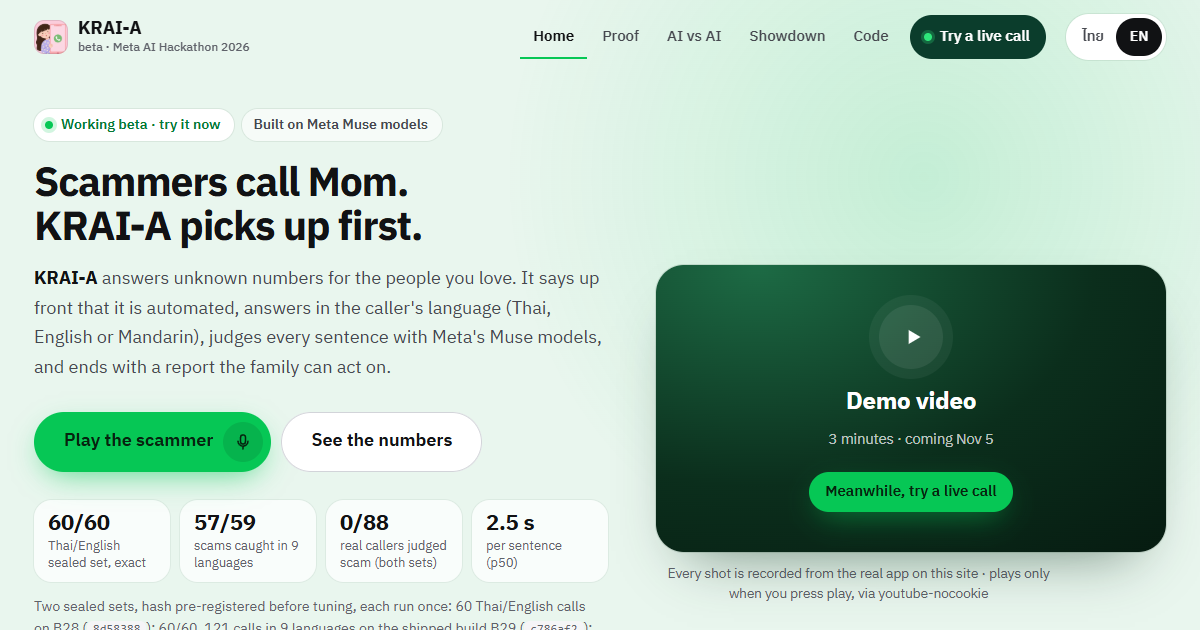
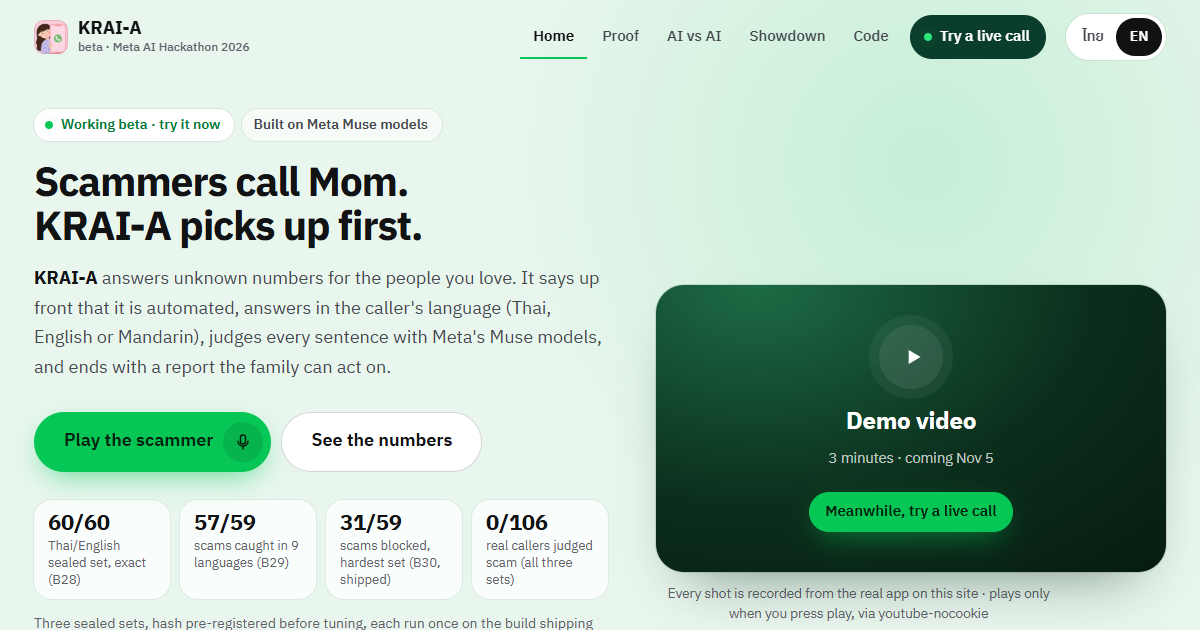
site: shipped build is B30; sealed v4 (hard, Claude-written, 100 of 236) stated plainly beside sealed-intl (B29) and sealed v2 (B28): 31/59 scams blocked, 4 put through, 0/106 real callers judged scam across all three; proof v4 story counts the subset and its UNSURE class; README, SUBMISSION, judge 

diff --git a/app/public/index.html b/app/public/index.html
@@ -6,11 +6,11 @@
 <meta name="color-scheme" content="light only">
 <meta name="theme-color" content="#E9F6EE">
 <title>KRAI-A beta — the AI that answers scam calls, on Meta models</title>
-<meta name="description" content="KRAI-A answers unknown calls, says it is automated, judges every caller sentence with Meta&#x27;s Muse models in Thai, English or Mandarin, and hangs up on scammers. Sealed tests: 60/60 on Thai/English calls; 57/59 scams caught and 0/62 real callers flagged in 9 languages.">
+<meta name="description" content="KRAI-A answers unknown calls, says it is automated, judges every caller sentence with Meta&#x27;s Muse models in Thai, English or Mandarin, and hangs up on scammers. Three sealed tests, each run once: 60/60 (Thai/English), 57/59 scams caught in 9 languages, and 31/59 on a much harder set; no real caller judged scam in any.">
 <meta property="og:type" content="website">
 <meta property="og:site_name" content="KRAI-A beta">
 <meta property="og:title" content="KRAI-A: an AI receptionist that screens scam calls, on Meta models">
-<meta property="og:description" content="KRAI-A answers unknown calls, says it is automated, judges every caller sentence with Meta&#x27;s Muse models in Thai, English or Mandarin, and hangs up on scammers. Sealed tests: 60/60 on Thai/English calls; 57/59 scams caught and 0/62 real callers flagged in 9 languages.">
+<meta property="og:description" content="KRAI-A answers unknown calls, says it is automated, judges every caller sentence with Meta&#x27;s Muse models in Thai, English or Mandarin, and hangs up on scammers. Three sealed tests, each run once: 60/60 (Thai/English), 57/59 scams caught in 9 languages, and 31/59 on a much harder set; no real caller judged scam in any.">
 <meta property="og:url" content="https://beta.krai-a.com/">
 <meta property="og:image" content="https://beta.krai-a.com/brand/og.png">
 <meta property="og:image:width" content="1200">
@@ -18,7 +18,7 @@
 <meta property="og:image:alt" content="The KRAI-A beta home page: Scammers call Mom. KRAI-A picks up first.">
 <meta name="twitter:card" content="summary_large_image">
 <meta name="twitter:title" content="KRAI-A: an AI receptionist that screens scam calls, on Meta models">
-<meta name="twitter:description" content="KRAI-A answers unknown calls, says it is automated, judges every caller sentence with Meta&#x27;s Muse models in Thai, English or Mandarin, and hangs up on scammers. Sealed tests: 60/60 on Thai/English calls; 57/59 scams caught and 0/62 real callers flagged in 9 languages.">
+<meta name="twitter:description" content="KRAI-A answers unknown calls, says it is automated, judges every caller sentence with Meta&#x27;s Muse models in Thai, English or Mandarin, and hangs up on scammers. Three sealed tests, each run once: 60/60 (Thai/English), 57/59 scams caught in 9 languages, and 31/59 on a much harder set; no real caller judged scam in any.">
 <meta name="twitter:image" content="https://beta.krai-a.com/brand/og.png">
 <link rel="apple-touch-icon" href="/brand/krai-a-icon.png">
 <link rel="icon" type="image/png" href="/brand/krai-a-icon.png">
@@ -173,12 +173,12 @@ html .k-hero .k-h1{font-size:clamp(34px,3.4vw,50px)}
           <a class="btn light big" href="/proof.html" data-th="ดูตัวเลขวัดจริง" data-en="See the numbers">See the numbers</a>
         </div>
         <ul class="k-facts" aria-label="Sealed test results">
-          <li><b>60/60</b><span data-th="ชุดปิดผนึกไทย/อังกฤษ ตัดสินตรง" data-en="Thai/English sealed set, exact">Thai/English sealed set, exact</span></li>
-          <li><b>57/59</b><span data-th="มิจที่จับได้ใน 9 ภาษา" data-en="scams caught in 9 languages">scams caught in 9 languages</span></li>
-          <li><b>0/88</b><span data-th="คนจริงที่ถูกตัดสินว่ามิจ (ทั้งสองชุด)" data-en="real callers judged scam (both sets)">real callers judged scam (both sets)</span></li>
-          <li><b>2.5 s</b><span data-th="ต่อประโยค (p50)" data-en="per sentence (p50)">per sentence (p50)</span></li>
+          <li><b>60/60</b><span data-th="ชุดไทย/อังกฤษ ตัดสินตรง (B28)" data-en="Thai/English sealed set, exact (B28)">Thai/English sealed set, exact (B28)</span></li>
+          <li><b>57/59</b><span data-th="มิจที่จับได้ใน 9 ภาษา (B29)" data-en="scams caught in 9 languages (B29)">scams caught in 9 languages (B29)</span></li>
+          <li><b>31/59</b><span data-th="มิจที่บล็อกได้ ชุดยากสุด (B30 ที่ส่ง)" data-en="scams blocked, hardest set (B30, shipped)">scams blocked, hardest set (B30, shipped)</span></li>
+          <li><b>0/106</b><span data-th="คนจริงที่ถูกตัดสินว่ามิจ (ทั้งสามชุด)" data-en="real callers judged scam (all three sets)">real callers judged scam (all three sets)</span></li>
         </ul>
-        <p class="k-note" data-th="สองชุดทดสอบปิดผนึก ลงทะเบียน hash ไว้ก่อนจูน รันชุดละครั้ง: 60 สายไทย/อังกฤษ บน B28 (<code>8d58388</code>) ได้ 60/60 · 121 สาย 9 ภาษา บน build ที่ส่งจริง B29 (<code>c786af2</code>) จับมิจ 57/59 ไม่มีคนจริงถูกตัดสินว่ามิจ แต่ 24 จาก 62 สายจริงถูกรับฝากเรื่องแทนการปล่อยผ่าน · <a href='/proof.html'>ผลดิบที่ /proof</a>" data-en="Two sealed sets, hash pre-registered before tuning, each run once: 60 Thai/English calls on B28 (<code>8d58388</code>): 60/60. 121 calls in 9 languages on the shipped build B29 (<code>c786af2</code>): 57/59 scams caught, no real caller judged scam, but 24 of 62 real callers got a message taken instead of being cleared. <a href='/proof.html'>Raw results on /proof</a>">Two sealed sets, hash pre-registered before tuning, each run once: 60 Thai/English calls on B28 (<code>8d58388</code>): 60/60. 121 calls in 9 languages on the shipped build B29 (<code>c786af2</code>): 57/59 scams caught, no real caller judged scam, but 24 of 62 real callers got a message taken instead of being cleared. <a href="/proof.html">Raw results on /proof</a></p>
+        <p class="k-note" data-th="สามชุดทดสอบปิดผนึก ลงทะเบียน hash ไว้ก่อนจูน รันชุดละครั้ง แต่ละชุดวัดบน build ที่ส่งอยู่ตอนนั้น: 60 สายไทย/อังกฤษ บน B28 ได้ 60/60 · 121 สาย 9 ภาษา บน B29 จับมิจ 57/59 · ชุดยากที่ Claude เขียน (100 จาก 236 สาย) บน B30 ที่ส่งจริงตอนนี้ บล็อกมิจได้แค่ 31/59 มิจ 4 สายถูกปล่อยเป็นคนจริง ที่เหลือจบเป็นการรับฝากเรื่อง · B30 ไม่ได้วัดซ้ำบนสองชุดแรก · <a href='/proof.html'>ผลดิบที่ /proof</a>" data-en="Three sealed sets, hash pre-registered before tuning, each run once on the build shipping at the time: 60 Thai/English calls on B28: 60/60. 121 calls in 9 languages on B29: 57/59 scams caught. A much harder Claude-written set (100 of 236 calls) on B30, shipped now: only 31/59 scams blocked; 4 scams were put through as real callers and the rest ended as a message. B30 was not re-run on the first two sets. <a href='/proof.html'>Raw results on /proof</a>">Three sealed sets, hash pre-registered before tuning, each run once on the build shipping at the time: 60 Thai/English calls on B28: 60/60. 121 calls in 9 languages on B29: 57/59 scams caught. A much harder Claude-written set (100 of 236 calls) on B30, shipped now: only 31/59 scams blocked; 4 scams were put through as real callers and the rest ended as a message. B30 was not re-run on the first two sets. <a href="/proof.html">Raw results on /proof</a></p>
         <p class="k-note lp-disc" data-th="สร้างระหว่างงาน 27 ต.ค.–4 พ.ย. · ต้นแบบเก่าบน Google Cloud เป็นแค่ไม้บรรทัดที่แช่แข็งไว้ ไม่ใช่ผลงานนี้ · บอกผู้โทรทุกสายว่าเป็นระบบอัตโนมัติ · <a href='https://github.com/ilGentEAcutoO/krai-a-beta'>โค้ดเปิด MIT</a> · <a href='#honest'>ข้อจำกัด</a>" data-en="Built Oct 27 – Nov 4 for this hackathon · the pre-hackathon Google Cloud prototype is a frozen baseline, not this entry · tells every caller it is automated · <a href='https://github.com/ilGentEAcutoO/krai-a-beta'>open source, MIT</a> · <a href='#honest'>limits</a>">Built Oct 27 – Nov 4 for this hackathon · the pre-hackathon Google Cloud prototype is a frozen baseline, not this entry · tells every caller it is automated · <a href="https://github.com/ilGentEAcutoO/krai-a-beta">open source, MIT</a> · <a href="#honest">limits</a></p>
       </div>
 
@@ -208,7 +208,7 @@ html .k-hero .k-h1{font-size:clamp(34px,3.4vw,50px)}
       <ul class="lp-judge-grid">
         <li><span class="k" data-th="ผลกระทบ" data-en="Impact">Impact</span><p data-th="คนอายุ 60+ เสียเงิน 28.55% จากการฉ้อโกงออนไลน์ในไทย ตอบผู้โทรได้ 3 ภาษา" data-en="People 60+ lose 28.55% of Thai online-fraud money; it answers callers in 3 languages.">People 60+ lose 28.55% of Thai online-fraud money; it answers callers in 3 languages.</p><a href="#problem" data-th="ตัวเลขพร้อมแหล่งที่มา" data-en="Sourced figures">Sourced figures</a> · <a href="/arena.html#langSec" data-th="ผู้โทรภาษาอื่น" data-en="Other languages">Other languages</a></li>
         <li><span class="k" data-th="การใช้เครื่องมือ Meta" data-en="Meta tooling">Meta tooling</span><p data-th="Voice Transcribe ฟัง, Spark ตัดสินทุกประโยค, Wonder ดูกรณีก้ำกึ่งและเล่นเป็นมิจ 504 เกม" data-en="Voice Transcribe listens, Spark judges every sentence, Wonder takes grey zones and red-teams 504 games.">Voice Transcribe listens, Spark judges every sentence, Wonder takes grey zones and red-teams 504 games.</p><a href="#tech" data-th="โมเดลไหนทำอะไร" data-en="Which model does what">Which model does what</a> · <a href="/arena.html" data-th="AI ปะทะ AI" data-en="AI vs AI">AI vs AI</a></li>
-        <li><span class="k" data-th="ความลึกทางเทคนิค" data-en="Technical depth">Technical depth</span><p data-th="ชุดปิดผนึกลงทะเบียนล่วงหน้าสองชุด (60/60 และ 57/59 มิจ 0/62 ผิด) นโยบายอยู่ในโค้ด เทสต์กว่า 260 ตัว ผลรันดิบอยู่ใน repo" data-en="Two pre-registered sealed sets (60/60; 57/59 scams with 0/62 false alarms), decisions in code, 260+ tests, raw runs in the repo.">Two pre-registered sealed sets (60/60; 57/59 scams with 0/62 false alarms), decisions in code, 260+ tests, raw runs in the repo.</p><a href="/proof.html" data-th="ผลวัดจริง" data-en="Proof">Proof</a> · <a href="https://github.com/ilGentEAcutoO/krai-a-beta" rel="noopener" data-th="โค้ด (MIT)" data-en="Code (MIT)">Code (MIT)</a></li>
+        <li><span class="k" data-th="ความลึกทางเทคนิค" data-en="Technical depth">Technical depth</span><p data-th="ชุดปิดผนึกลงทะเบียนล่วงหน้าสามชุด (60/60, 57/59 และชุดยาก 31/59) นโยบายอยู่ในโค้ด เทสต์กว่า 260 ตัว ผลรันดิบอยู่ใน repo" data-en="Three pre-registered sealed sets (60/60; 57/59; 31/59 on the hardest), decisions in code, 260+ tests, raw runs in the repo.">Three pre-registered sealed sets (60/60; 57/59; 31/59 on the hardest), decisions in code, 260+ tests, raw runs in the repo.</p><a href="/proof.html" data-th="ผลวัดจริง" data-en="Proof">Proof</a> · <a href="https://github.com/ilGentEAcutoO/krai-a-beta" rel="noopener" data-th="โค้ด (MIT)" data-en="Code (MIT)">Code (MIT)</a></li>
         <li><span class="k" data-th="เดโม" data-en="Demo">Demo</span><p data-th="สวมบทมิจด้วยเสียง พิมพ์ หรือเล่นสายตัวอย่าง ได้คำตัดสินทุกประโยคและรายงานตอนจบสาย" data-en="Play the scammer by voice, typing or a sample call; a verdict on every sentence and a report at the end.">Play the scammer by voice, typing or a sample call; a verdict on every sentence and a report at the end.</p><a href="/demo-live.html" data-th="ลองโทรสด" data-en="Try a live call">Try a live call</a> · <a href="https://github.com/ilGentEAcutoO/krai-a-beta/blob/main/docs/judge-guide.md" data-th="คู่มือ 60 วินาที" data-en="60-second guide">60-second guide</a></li>
       </ul>
     </div>
@@ -318,8 +318,8 @@ html .k-hero .k-h1{font-size:clamp(34px,3.4vw,50px)}
         <article class="k-card">
           <span class="k-card-ic blue" aria-hidden="true"><svg viewBox="0 0 24 24"><path d="M12 3l7.5 3v5.5c0 4.6-3.2 8.4-7.5 9.5-4.3-1.1-7.5-4.9-7.5-9.5V6z M8.6 12.2l2.4 2.4 4.6-4.8"/></svg></span>
           <h3 data-th="ทดสอบกับสายที่ไม่เคยเห็น" data-en="Tested on calls it never saw">Tested on calls it never saw</h3>
-          <p data-th="สองชุดที่ลงทะเบียน hash ไว้ก่อนจูนและรันชุดละครั้ง: 60 สายไทย/อังกฤษ บน B28 และ 121 สายใน 9 ภาษา (อังกฤษ จีนกลาง เวียดนาม อินโดนีเซีย มาเลย์ ตากาล็อก ญี่ปุ่น เกาหลี ฮินดี) บน build ที่ส่งจริง B29 ไม่มีมิจถูกปล่อยเป็นคนจริงในชุดไหนเลย ทุกรันอยู่ใน /proof พร้อมผลดิบ" data-en="Two sets, hash pre-registered before tuning, each run once: 60 Thai/English calls on B28, and 121 calls in 9 languages (English, Mandarin, Vietnamese, Indonesian, Malay, Tagalog, Japanese, Korean, Hindi) on the shipped build B29. No scam was cleared as a real caller in either. Every run is on /proof with raw results.">Two sets, hash pre-registered before tuning, each run once: 60 Thai/English calls on B28, and 121 calls in 9 languages (English, Mandarin, Vietnamese, Indonesian, Malay, Tagalog, Japanese, Korean, Hindi) on the shipped build B29. No scam was cleared as a real caller in either. Every run is on /proof with raw results.</p>
-          <div class="k-metric"><b>57/59</b><span data-th="มิจที่จับได้ 9 ภาษา · คนจริงถูกตัดสินว่ามิจ 0/62 · ชุดไทย/อังกฤษ 60/60" data-en="scams caught in 9 languages · real callers judged scam 0/62 · Thai/English set 60/60">scams caught in 9 languages · real callers judged scam 0/62 · Thai/English set 60/60</span></div>
+          <p data-th="สามชุดที่ลงทะเบียน hash ไว้ก่อนจูน รันชุดละครั้งบน build ของตอนนั้น: 60 สายไทย/อังกฤษ (B28) 121 สายใน 9 ภาษา (B29) และ 100 สายยากที่ Claude เขียนจาก 236 สาย มีทั้งผู้โทรที่พยายามหลอก AI เสียงถอดผิด สำเนียงท้องถิ่น และมิจค่อย ๆ หลอก (B30 ที่ส่ง) ทุกรันอยู่ใน /proof พร้อมผลดิบ" data-en="Three sets, hash pre-registered before tuning, each run once on the build of the day: 60 Thai/English calls (B28), 121 calls in 9 languages (B29), and 100 hard Claude-written calls out of 236, with adversarial callers, transcription noise, dialects and slow burns (B30, shipped). Every run is on /proof with raw results.">Three sets, hash pre-registered before tuning, each run once on the build of the day: 60 Thai/English calls (B28), 121 calls in 9 languages (B29), and 100 hard Claude-written calls out of 236, with adversarial callers, transcription noise, dialects and slow burns (B30, shipped). Every run is on /proof with raw results.</p>
+          <div class="k-metric"><b>0/106</b><span data-th="คนจริงถูกตัดสินว่ามิจ ทั้งสามชุด · มิจ 60/60 → 57/59 → 31/59 บนชุดยากสุด" data-en="real callers judged scam across all three · scams: 60/60, 57/59, then 31/59 on the hardest">real callers judged scam across all three · scams: 60/60, 57/59, then 31/59 on the hardest</span></div>
         </article>
       </div>
     </div>
@@ -383,7 +383,7 @@ html .k-hero .k-h1{font-size:clamp(34px,3.4vw,50px)}
       <div class="k-sec-head">
         <span class="k-kicker" data-th="เบื้องหลัง" data-en="Under the hood">Under the hood</span>
         <h2 id="techTitle" data-th="ทุกการตัดสินใจเป็นโมเดลของ Meta" data-en="Every decision is a Meta model">Every decision is a Meta model</h2>
-        <p data-th="Gemini ทำหน้าที่เดียวคือพูดออกเสียง เพราะ API ของ Meta ไม่มีระบบแปลงข้อความเป็นเสียง เวลาและค่าใช้จ่ายวัดจากการรันชุดปิดผนึก 9 ภาษาบน build ที่ส่ง B29 (เฉพาะการตัดสิน ค่าถอดเสียงคิดแยก)" data-en="Gemini does one job, speaking out loud, because Meta's API has no text-to-speech. Timings and cost are measured on the 9-language sealed run of the shipped build B29 (judge only; transcription priced separately).">Gemini does one job, speaking out loud, because Meta's API has no text-to-speech. Timings and cost are measured on the 9-language sealed run of the shipped build B29 (judge only; transcription priced separately).</p>
+        <p data-th="Gemini ทำหน้าที่เดียวคือพูดออกเสียง เพราะ API ของ Meta ไม่มีระบบแปลงข้อความเป็นเสียง เวลาและค่าใช้จ่ายวัดจากการรันชุดปิดผนึก 9 ภาษา (B29) ส่วน B30 ที่ส่งตอนนี้ใช้เวลามัธยฐานเท่ากัน 2.5 s (เฉพาะการตัดสิน ค่าถอดเสียงคิดแยก)" data-en="Gemini does one job, speaking out loud, because Meta's API has no text-to-speech. Timings and cost are measured on the 9-language sealed run (B29); the shipped B30 judges at the same 2.5 s median (judge only; transcription priced separately).">Gemini does one job, speaking out loud, because Meta's API has no text-to-speech. Timings and cost are measured on the 9-language sealed run (B29); the shipped B30 judges at the same 2.5 s median (judge only; transcription priced separately).</p>
       </div>
       <div class="lp-arch" role="list">
         <div class="lp-node meta" role="listitem"><span class="k">Meta · ear</span><b>Muse Voice Transcribe</b><code>muse-voice-transcribe-1.0</code><span data-th="ฟังภาษาไทยแบบเรียลไทม์ผ่าน Durable Object ที่ถือคีย์ไว้ฝั่งเซิร์ฟเวอร์" data-en="Hears the caller in real time (Thai, English, Mandarin) through a Durable Object that keeps the key on the server.">Hears the caller in real time (Thai, English, Mandarin) through a Durable Object that keeps the key on the server.</span><span class="m" data-th="<b>~1.8 s</b> จากจบประโยคถึงข้อความสุดท้าย · $0.18/ชม." data-en="<b>~1.8 s</b> end of speech to final text · $0.18/hour"><b>~1.8 s</b> end of speech to final text · $0.18/hour</span></div>
@@ -460,7 +460,7 @@ html .k-hero .k-h1{font-size:clamp(34px,3.4vw,50px)}
             <li data-th="<b>เดโมบนเว็บ ไม่ได้ต่อเบอร์จริง</b> เดโมนี้ไม่ส่งรายงานให้ใครเอง ครอบครัวกดคัดลอกหรือแชร์ ส่วนการส่งเข้าแชตมีให้สำหรับคนที่ fork ไป (ด้านบน) ยังไม่ได้ทดสอบส่งจริง" data-en="<b>A web demo, not a phone line.</b> This demo does not send the report to anyone; the family copies or shares it. Chat delivery exists for forks (above), not live-verified."><b>A web demo, not a phone line.</b> This demo does not send the report to anyone; the family copies or shares it. Chat delivery exists for forks (above), not live-verified.</li>
             <li data-th="<b>ช้ากว่ารุ่นเก่า</b> Spark ใช้ 2.5 s ต่อประโยค ตัวตัดสินเก่าใช้ราว 0.27 s คำตอบจริงคำแรกช้ากว่า (3.0 s เทียบ 1.2 s)" data-en="<b>Slower than the old judge.</b> Spark takes 2.5 s per sentence against about 0.27 s; the first real reply is slower too (3.0 s vs 1.2 s)."><b>Slower than the old judge.</b> Spark takes 2.5 s per sentence against about 0.27 s; the first real reply is slower too (3.0 s vs 1.2 s).</li>
             <li data-th="<b>ระวังเกินไปกับสายต่างภาษา</b> ในชุด 9 ภาษา 24 จาก 62 สายจริงถูกรับฝากเรื่องแทนการปล่อยผ่าน และมิจ 2 สายจบเป็นการรับฝาก (ไม่มีสายไหนถูกปล่อยเป็นคนจริง) ภาษาอื่นนอกจากอังกฤษกับจีนมีชุดละ 5 สาย" data-en="<b>Over-cautious with foreign-language callers.</b> In the 9-language set, 24 of 62 real callers got a message taken instead of being cleared, and 2 scams ended as a message (none was cleared). Languages other than English and Mandarin have 5 calls each."><b>Over-cautious with foreign-language callers.</b> In the 9-language set, 24 of 62 real callers got a message taken instead of being cleared, and 2 scams ended as a message (none was cleared). Languages other than English and Mandarin have 5 calls each.</li>
-            <li data-th="หลานที่โทรมายืมเงินจริงถูกบล็อกเหมือนมุก “ญาติเดือดร้อน” และเสียงในการทดสอบเสียงจริงเป็น TTS ไม่ใช่คน" data-en="A real nephew asking to borrow money is blocked like a “family in trouble” scam, and the real-audio test voices are TTS, not people.">A real nephew asking to borrow money is blocked like a “family in trouble” scam, and the real-audio test voices are TTS, not people.</li>
+            <li data-th="<b>ชุดยากยังพลาดเยอะ</b> บนชุดที่ Claude เขียน B30 บล็อกมิจได้ 31/59 มิจ 4 สายถูกปล่อยเป็นคนจริง ที่เหลือจบเป็นรับฝากเรื่อง (ไม่วางสาย) และเสียงในการทดสอบเสียงจริงเป็น TTS ไม่ใช่คน" data-en="<b>The hard set still beats it.</b> On the Claude-written set, B30 blocked 31/59 scams; 4 were put through as real callers and the rest ended as a message, not a hang-up. The real-audio test voices are TTS, not people."><b>The hard set still beats it.</b> On the Claude-written set, B30 blocked 31/59 scams; 4 were put through as real callers and the rest ended as a message, not a hang-up. The real-audio test voices are TTS, not people.</li>
           </ul>
           <p class="lp-src"><a href="/proof.html#h-lim" data-th="ข้อจำกัดทั้งหมดที่ /proof และ /arena" data-en="Full list on /proof and /arena">Full list on /proof and /arena</a></p>
         </article>

diff --git a/app/public/proof.js b/app/public/proof.js
@@ -231,12 +231,12 @@ export function sealedIntlHtml(runs = [], notes = null, prereg = null, name = ['
   const range = (x) => (x ? `${pct(x[0])}–${pct(x[1])}` : 'n/a');
   const lines = notes ? (L(notes.th, notes.en) || []) : [];
   const by = Object.entries(r.byLang || {});
-  const rows = by.map(([k, v]) => `<tr><th scope="row">${esc(LANG_NAME[k] ? L(LANG_NAME[k][0], LANG_NAME[k][1]) : k)}${(v.n >= 20 || ['th', 'en', 'zh'].includes(k)) ? '' : ` <small class="k-muted">${L('ชุดเล็ก', 'small')}</small>`}</th><td>${v.n}</td><td>${v.scamCaught}/${v.scam}</td><td>${v.legitAsScam}/${v.legit}</td><td>${v.legitUnsure}/${v.legit}</td><td>${v.exact}/${v.n}</td></tr>`).join('');
+  const rows = by.map(([k, v]) => `<tr><th scope="row">${esc(LANG_NAME[k] ? L(LANG_NAME[k][0], LANG_NAME[k][1]) : k)}${(v.n >= 20 || ['th', 'en', 'zh'].includes(k)) ? '' : ` <small class="k-muted">${L('ชุดเล็ก', 'small')}</small>`}</th><td>${v.n}</td><td>${v.scamCaught}/${v.scam}</td><td>${v.scamAsLegit ?? 0}</td><td>${v.legit ? `${v.legitAsScam}/${v.legit}` : '—'}</td><td>${v.legit ? `${v.legitUnsure}/${v.legit}` : '—'}</td><td>${v.exact}/${v.n}</td></tr>`).join('');
   return `<div class="pf-story k-card" style="margin-top:16px"><p><b>${L(`${name[0]} พูดตรง ๆ`, `${name[1]}, stated plainly`)}.</b> ${L(
-    `${r.progress?.total || r.accuracy.n} สายที่ไม่เคยใช้จูนใน ${by.length} ภาษา (สแกม ${r.scamRecall.n} สายจริง ${r.falseAlarm.n})${r.byLang && !r.byLang.th ? ' ไม่มีสายภาษาไทย' : ''} ลงทะเบียน hash ไว้ก่อนจูน รันครั้งเดียวบน build ที่ส่งจริง <code>${esc(r.git || '?')}</code> จับสแกม ${r.scamRecall.k}/${r.scamRecall.n} ไม่มีสแกมถูกปล่อยเป็นสายจริง (${r.unsafeMiss}) สายจริงโดนตัดว่าสแกม ${r.falseAlarm.k}/${r.falseAlarm.n} แต่สายจริง ${r.legitUnsure.k}/${r.legitUnsure.n} ถูกรับฝากเรื่องแทนการปล่อยผ่าน`,
-    `${r.progress?.total || r.accuracy.n} held-out calls in ${by.length} languages (${r.scamRecall.n} scam, ${r.falseAlarm.n} legit${r.byLang && !r.byLang.th ? '; no Thai' : ''}), hash pre-registered before tuning, run once on the shipped build <code>${esc(r.git || '?')}</code>. Scams caught ${r.scamRecall.k}/${r.scamRecall.n}, none passed as legit (${r.unsafeMiss}); legit judged SCAM ${r.falseAlarm.k}/${r.falseAlarm.n}; but ${r.legitUnsure.k} of ${r.legitUnsure.n} legit callers were left UNSURE (a message taken instead of being cleared).`)}</p>
+    `${r.accuracy.n} สายที่ไม่เคยใช้จูนใน ${by.length} ภาษา (สแกม ${r.scamRecall.n} สายจริง ${r.falseAlarm.n}${r.accuracy.n - r.scamRecall.n - r.falseAlarm.n > 0 ? ` และ ${r.accuracy.n - r.scamRecall.n - r.falseAlarm.n} สายที่คำตอบที่ถูกคือไม่แน่ใจ` : ''})${r.byLang && !r.byLang.th ? ' ไม่มีสายภาษาไทย' : ''} ลงทะเบียน hash ไว้ก่อนจูน รันครั้งเดียวบน build ที่ส่งจริง <code>${esc(r.git || '?')}</code> จับสแกม ${r.scamRecall.k}/${r.scamRecall.n} ${r.unsafeMiss ? `<b>สแกม ${r.unsafeMiss} สายถูกปล่อยเป็นสายจริง</b> (พลาดหนักสุด) ที่เหลือจบเป็นรับฝากเรื่อง` : 'ไม่มีสแกมถูกปล่อยเป็นสายจริง'} สายจริงโดนตัดว่าสแกม ${r.falseAlarm.k}/${r.falseAlarm.n} แต่สายจริง ${r.legitUnsure.k}/${r.legitUnsure.n} ถูกรับฝากเรื่องแทนการปล่อยผ่าน`,
+    `${r.accuracy.n} held-out calls in ${by.length} languages (${r.scamRecall.n} scam, ${r.falseAlarm.n} legit${r.accuracy.n - r.scamRecall.n - r.falseAlarm.n > 0 ? `, ${r.accuracy.n - r.scamRecall.n - r.falseAlarm.n} where UNSURE is the right answer` : ''}${r.byLang && !r.byLang.th ? '; no Thai' : ''}), hash pre-registered before tuning, run once on the shipped build <code>${esc(r.git || '?')}</code>. Scams caught ${r.scamRecall.k}/${r.scamRecall.n}; ${r.unsafeMiss ? `<b>${r.unsafeMiss} ended as LEGIT</b>, the worst error, and the rest ended UNSURE (a message taken)` : 'none passed as legit'}; legit judged SCAM ${r.falseAlarm.k}/${r.falseAlarm.n}; but ${r.legitUnsure.k} of ${r.legitUnsure.n} legit callers were left UNSURE (a message taken instead of being cleared).`)}</p>
 ${lines.length ? `<ul>${lines.map((x) => `<li>${esc(x)}</li>`).join('')}</ul>` : ''}
-${rows ? `<div class="k-table-wrap" style="margin-top:12px"><table class="k-table"><thead><tr><th>${L('ภาษา', 'Language')}</th><th>${L('สาย', 'Calls')}</th><th>${L('จับสแกม', 'Scams caught')}</th><th>${L('สายจริงโดนตัดว่าสแกม', 'Legit judged SCAM')}</th><th>${L('สายจริงไม่แน่ใจ', 'Legit left UNSURE')}</th><th>${L('ตรงคลาส', 'Exact')}</th></tr></thead><tbody>${rows}</tbody></table></div>` : ''}
+${rows ? `<div class="k-table-wrap" style="margin-top:12px"><table class="k-table"><thead><tr><th>${L('ภาษา', 'Language')}</th><th>${L('สาย', 'Calls')}</th><th>${L('จับสแกม', 'Scams caught')}</th><th>${L('สแกมถูกปล่อยเป็นสายจริง', 'Scams ended LEGIT')}</th><th>${L('สายจริงโดนตัดว่าสแกม', 'Legit judged SCAM')}</th><th>${L('สายจริงไม่แน่ใจ', 'Legit left UNSURE')}</th><th>${L('ตรงคลาส', 'Exact')}</th></tr></thead><tbody>${rows}</tbody></table></div>` : ''}
 <p class="k-note">${L(
     `n เล็ก: จับสแกม ${r.scamRecall.k}/${r.scamRecall.n} ช่วงความเชื่อมั่น 95% (Wilson) ${range(ci)} · สายจริงโดนตัด ${r.falseAlarm.k}/${r.falseAlarm.n} ช่วง ${range(fa)} · baseline ไม่ได้รันบนชุดนี้`,
     `Small n: ${r.scamRecall.k}/${r.scamRecall.n} scams caught has a 95% CI (Wilson) of ${range(ci)}; ${r.falseAlarm.k}/${r.falseAlarm.n} legit judged SCAM, ${range(fa)}. ${by.some(([, v]) => v.n < 20) ? 'Languages marked small have only a few calls each. ' : ''}No baseline was run on this set.`)}${prereg ? ` <a href="/${esc(prereg)}">${L('ใบลงทะเบียนล่วงหน้า', 'Pre-registration')}</a>` : ''}${r.raw ? ` · <a href="/${esc(r.raw)}">${L('ผลดิบ', 'Raw results')}</a>` : ''}</p></div>`;

diff --git a/docs/SUBMISSION.md b/docs/SUBMISSION.md
@@ -35,11 +35,11 @@ Build for Your World
 
 ### 6. Project Description*
 
-KRAI-A is an AI receptionist that answers unknown calls for the people you love and screens them for scams. Phone scams start with a call from a fresh number: a fake police officer or "bank security" keeps an older person on the line until they move their savings to a "safe account" or read out a one-time code. In Thailand, people aged 60+ filed 8% of online-fraud reports in Jan–Aug 2026 but lost 29% of the money (Thairath, Sep 2, 2026).
+KRAI-A is an AI receptionist that answers unknown calls for the people you love and screens them for scams. Phone scams start with a call from a fresh number: a fake police officer or "bank security" keeps an older person on the line until they move their savings to a "safe account" or read out a one-time code. In Thailand, people aged 60+ filed 8% of online-fraud reports in 2026 but lost 29% of the money (Thairath).
 
 KRAI-A picks up first. Its first line says it is an automated assistant and that the call is recorded. Muse Voice Transcribe hears the caller live, Muse Spark judges every sentence, Muse Wonder gives a second opinion on grey-zone calls, and code decides: a polite hang-up or a 10-minute stalling trap for scammers, a message for real callers. It answers in Thai, English or Mandarin and ends with a case report for the family: who the caller claimed to be, the trick, any account number or LINE id quoted in the caller's own words, and next steps written by code.
 
-Two held-out sets, pre-registered before tuning and run once each: 60/60 on 60 Thai/English calls, and on 121 calls in 9 languages with the shipped build, 57/59 scams caught and 0/62 real callers judged scam. 2.5 s per sentence, $0.008 per call.
+Three held-out sets, pre-registered and run once each on the build of the day: 60/60 on Thai/English calls; 57/59 scams caught in 9 languages; and on a much harder Claude-written set, only 31/59 scams blocked (4 put through) by the shipped build. No real caller was judged scam in any. 2.5 s per sentence.
 
 Try it: https://beta.krai-a.com/demo-live
 
@@ -58,7 +58,7 @@ https://github.com/ilGentEAcutoO/krai-a-beta
 Every decision in the product is made by a Meta model, called directly through the Meta Model API.
 
 - Muse Voice Transcribe 1.0 (realtime, Thai bias): the ear. A Cloudflare Durable Object holds the key and relays the audio; the final transcript lands about 1.8 s after the caller stops.
-- Muse Spark 1.2 (effort minimal): judges every caller sentence with 6 few-shot calls and a strict JSON schema (verdict, tactic, confidence, 9 risk signals): 2.5 s p50, 4.8 s p95, $0.0081 per call on the 9-language sealed set. Code turns its fields into the action and picks the receptionist's next question.
+- Muse Spark 1.2 (effort minimal): judges every caller sentence with 6 few-shot calls and a strict JSON schema (verdict, tactic, confidence, 9 risk signals): 2.5 s p50 per sentence on the shipped build, $0.008–0.015 per call. Code turns its fields into the action and picks the receptionist's next question.
 - Muse Wonder 1.0: a second opinion on grey-zone sentences only (6% of them). It must quote the caller word for word and can never clear a call that asked for money or codes.
 - Muse Spark 1.3: writes the trap-mode stalling lines and the family case report; code keeps only items backed by a verbatim caller quote.
 - Muse Wonder as red team: it played 52 adaptive scam and real-caller personas in 504 AI-vs-AI games, plus 110 personas in English, Mandarin and 7 more Asian languages.
@@ -73,7 +73,7 @@ One API covers the whole loop of a phone call: realtime speech recognition, a fa
 Measured against our older Google-based prototype on the same calls:
 - Real audio (10 calls streamed in real time, TTS caller voices): the old build flagged 1 of 6 scams, the Meta pipeline 6 of 6, with no wrong hang-ups; English transcription error fell from 21% to 5%.
 - 120 train calls: 96.7% exact vs 90.8%, and 0 real callers judged scam vs 2.
-- Sealed sets, pre-registered: 60/60 on 60 Thai/English calls; 57/59 scams caught and 0/62 real callers judged scam on 121 calls in 9 languages.
+- Sealed sets, pre-registered, one run each: 60/60 on Thai/English calls; 57/59 scams caught in 9 languages; 31/59 on a much harder Claude-written set. No real caller judged scam in any (0/106).
 
 The honest trade-off: Spark is a reasoning model, so a sentence takes about 2.5 s instead of 0.3 s and costs more ($8 per 1,000 calls). We accept that because Spark reads the script, not keywords, and code rules close hard demands such as an OTP request before Spark answers. Every number is on https://beta.krai-a.com/proof.
 
@@ -180,7 +180,19 @@ call that is the limit. Price (about $8 per 1,000 calls to judge) is acceptable.
 
 ## Measured results
 
-**Sealed-intl (Nov 4), on the shipped build B29 (`c786af2`).** 121 held-out
+**Sealed v4 (Nov 4), on the shipped build B30 (`13fcaae`).** 100 of 236
+hard calls written by Claude (`claude-opus-5-5`, a different model family
+from the Meta judge), pre-registered as a hash subset before any round-2
+tuning; the other 136 stay sealed. Run once. Scams blocked 31/59 (95% CI
+40–64.7%); 4 scams ended LEGIT, the worst error
+(`v4-th-scam-0273`, `v4-en-scam-0092`, `v4-vi-scam-0351`, `v4-tl-scam-0201`),
+and the other 24 missed scams ended UNSURE (a message taken). Real callers
+judged SCAM 0/18 (CI 0–17.6%), 4/18 left UNSURE. UNSURE-class calls: 18 of
+23 kept UNSURE. Exact 63/100, safe 66/100. 2.5 s p50 / 14.3 s p95 per
+sentence, $0.0145 per call. This is a much harder set than the others and
+the result is low; B30 was not re-run on sealed-intl or sealed v2.
+
+**Sealed-intl (Nov 4), on build B29 (`c786af2`).** 121 held-out
 calls in 9 languages (44 English, 42 Mandarin, 5 each in Vietnamese,
 Indonesian, Malay, Tagalog, Japanese, Korean and Hindi), hash pre-registered
 at `7886737`, run once from a clean checkout after B29 was declared final.

diff --git a/README.md b/README.md
@@ -24,8 +24,9 @@ gives them away.
 
 | | Result | Where it is from |
 |---|---|---|
-| Sealed-intl, shipped build B29 (`c786af2`) | **57/59 scams caught, 0/62 real callers judged scam**; 24/62 real callers left as a message (UNSURE); no scam cleared | 121 held-out calls in 9 languages (44 English, 42 Mandarin, 5 each vi/id/ms/tl/ja/ko/hi), hash pre-registered at `7886737`, one run, [`/proof`](https://beta.krai-a.com/proof) |
-| Sealed v2, build B28 (`8d58388`) | **60/60 exact: 34/34 scams caught, 0/26 real callers judged scam** | 60 held-out calls (51 Thai, 9 English), hash pre-registered at `a1629c8`, one run. B29's later changes were measured on train only |
+| Sealed v4 (hard, Claude-written), shipped build B30 (`13fcaae`) | **31/59 scams blocked; 4 scams put through as LEGIT**, the rest left as a message; 0/18 real callers judged scam | 100 of 236 calls (hash subset pre-registered at `7675e71`), one run; written by Claude, a different model family from the judge. Much harder than the other sets |
+| Sealed-intl, build B29 (`c786af2`) | **57/59 scams caught, 0/62 real callers judged scam**; 24/62 real callers left as a message (UNSURE); no scam cleared | 121 held-out calls in 9 languages (44 English, 42 Mandarin, 5 each vi/id/ms/tl/ja/ko/hi), hash pre-registered at `7886737`, one run, [`/proof`](https://beta.krai-a.com/proof) |
+| Sealed v2, build B28 (`8d58388`) | **60/60 exact: 34/34 scams caught, 0/26 real callers judged scam** | 60 held-out calls (51 Thai, 9 English), hash pre-registered at `a1629c8`, one run. Later builds were not re-run on it |
 | Train set, B29 | 77/77 scams caught, 0/43 real callers judged scam, 143/146 exact | 146 calls, not held out |
 | Judge time per caller sentence (B29, sealed-intl) | 2.5 s p50 · 9.6 s p95 (Spark alone 2.5 s / 4.8 s) | same run |
 | Judge cost (B29, sealed-intl) | $0.0081 per call ($8.14 per 1,000 calls) | same run, metered tokens |
@@ -33,7 +34,7 @@ gives them away.
 | Other languages (arena, text) | English 154/164 and Mandarin 143/150 callers handled as expected; 7 more languages probed with 15 calls each | [`/arena`](https://beta.krai-a.com/arena.html) |
 | Real audio (10 calls, TTS voices, Nov 3 build `75c2ede`) | scams flagged 6/6 vs 1/6 for the old build, 0 wrong hang-ups | [`/proof`](https://beta.krai-a.com/proof) |
 
-Small n: 57/59 has a 95% CI (Wilson) of 88.5–99.1%, and 34/34 of 89.8–100%.
+Small n: 31/59 has a 95% CI (Wilson) of 40–64.7%, 57/59 of 88.5–99.1%, and 34/34 of 89.8–100%. Each set measures the build that was shipping that day; B30 was not re-run on the older sets.
 
 ## Which Meta model does what
 
@@ -48,6 +49,9 @@ Small n: 57/59 has a 95% CI (Wilson) of 88.5–99.1%, and 34/34 of 89.8–100%.
 
 ## Honest limits
 
+- The hardest test set still beats it: on 100 Claude-written adversarial,
+  noisy and dialect calls, the shipped B30 blocked 31/59 scams and put 4
+  through as real callers (the rest ended as a message).
 - A web demo, not a phone line: you play the caller in the browser. The demo
   does not send the case report anywhere; chat delivery for forks is
   contract-tested, not live-verified.

diff --git a/docs/judge-guide.md b/docs/judge-guide.md
@@ -58,8 +58,9 @@ gave with your words, and next steps written by code (1213 Bank of Thailand,
 1441 anti-online-scam centre). Nothing is sent to anyone; the family copies
 or shares it.
 
-More: measured numbers at https://beta.krai-a.com/proof (sealed: 60/60 on Thai/English
-calls; 57/59 scams caught and 0/62 real callers flagged in 9 languages), 504 AI-vs-AI games at https://beta.krai-a.com/arena.html,
+More: measured numbers at https://beta.krai-a.com/proof (three sealed sets, one run each:
+60/60 on Thai/English calls; 57/59 scams caught in 9 languages; 31/59 on a much
+harder Claude-written set, with 4 scams put through), 504 AI-vs-AI games at https://beta.krai-a.com/arena.html,
 the old build beside the new one at https://beta.krai-a.com/showdown.html.
 Code and corpus: https://github.com/ilGentEAcutoO/krai-a-beta (MIT).
 
